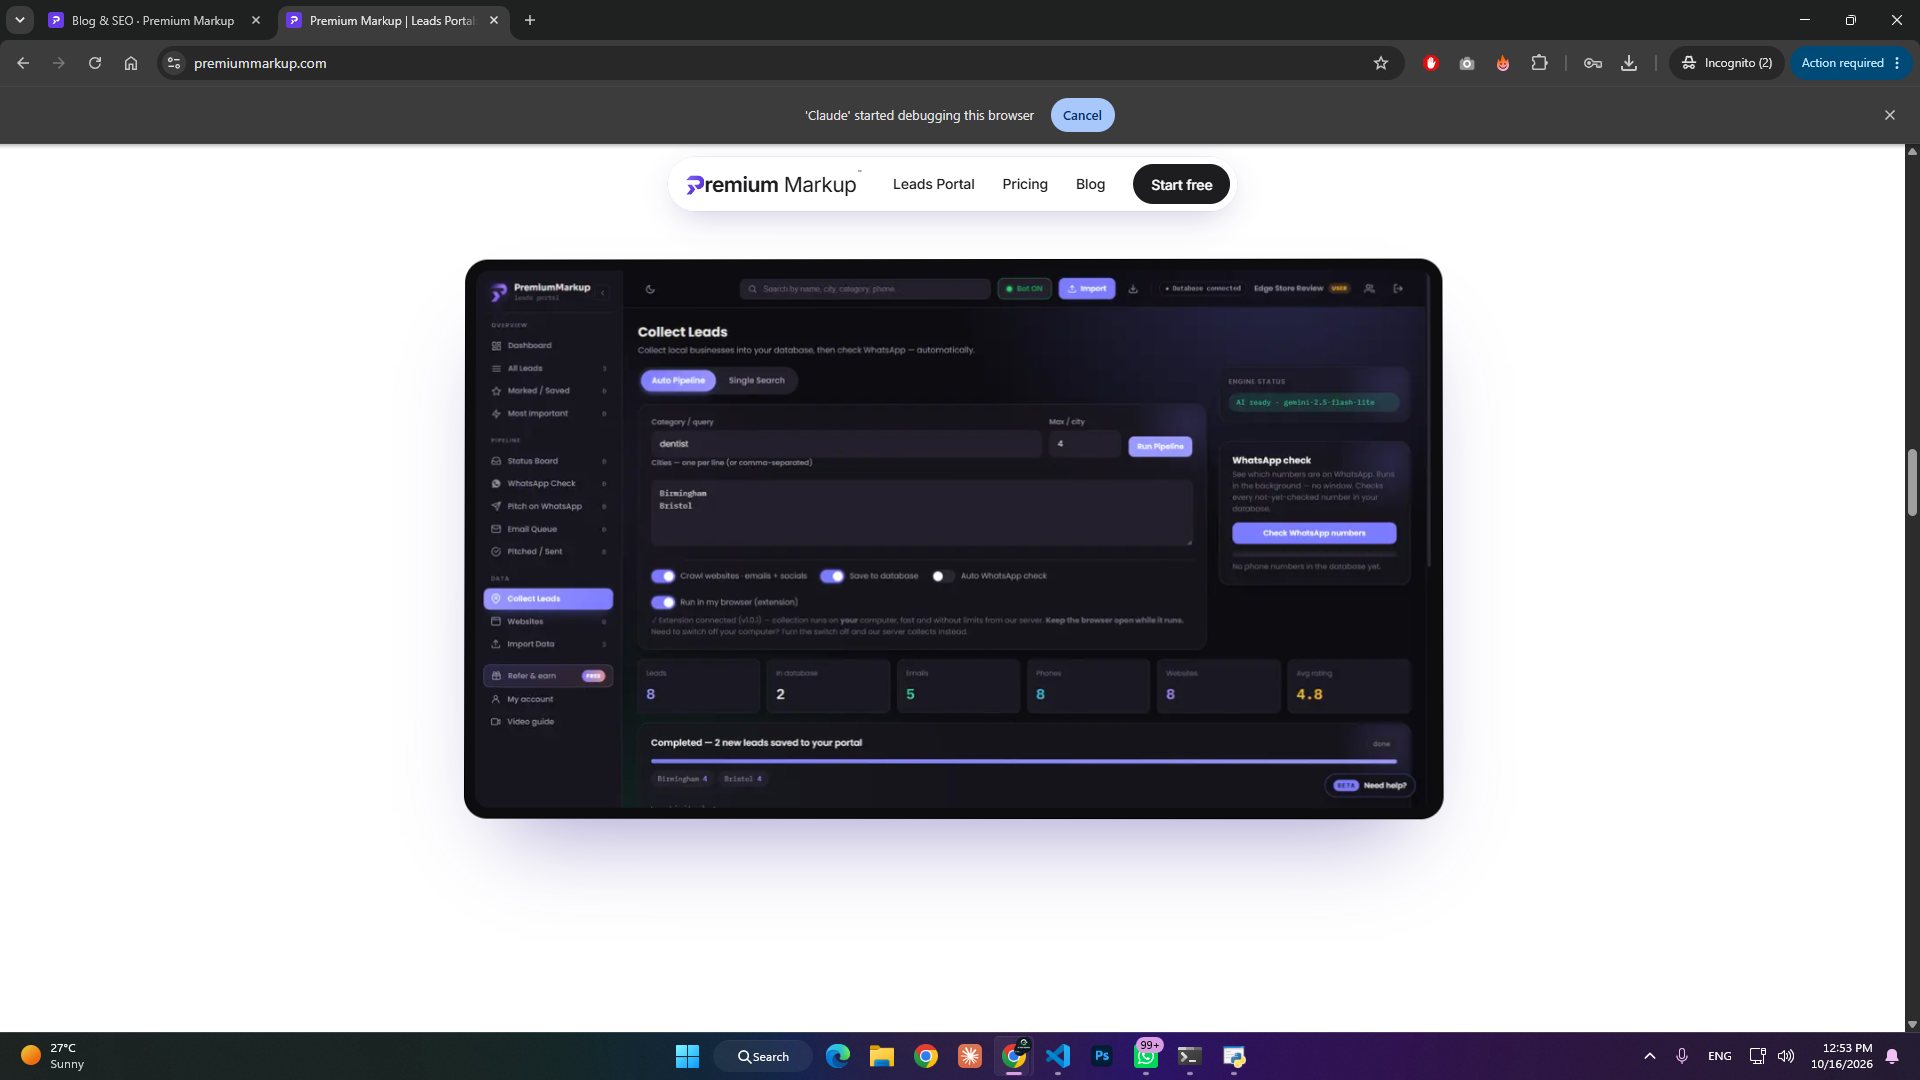
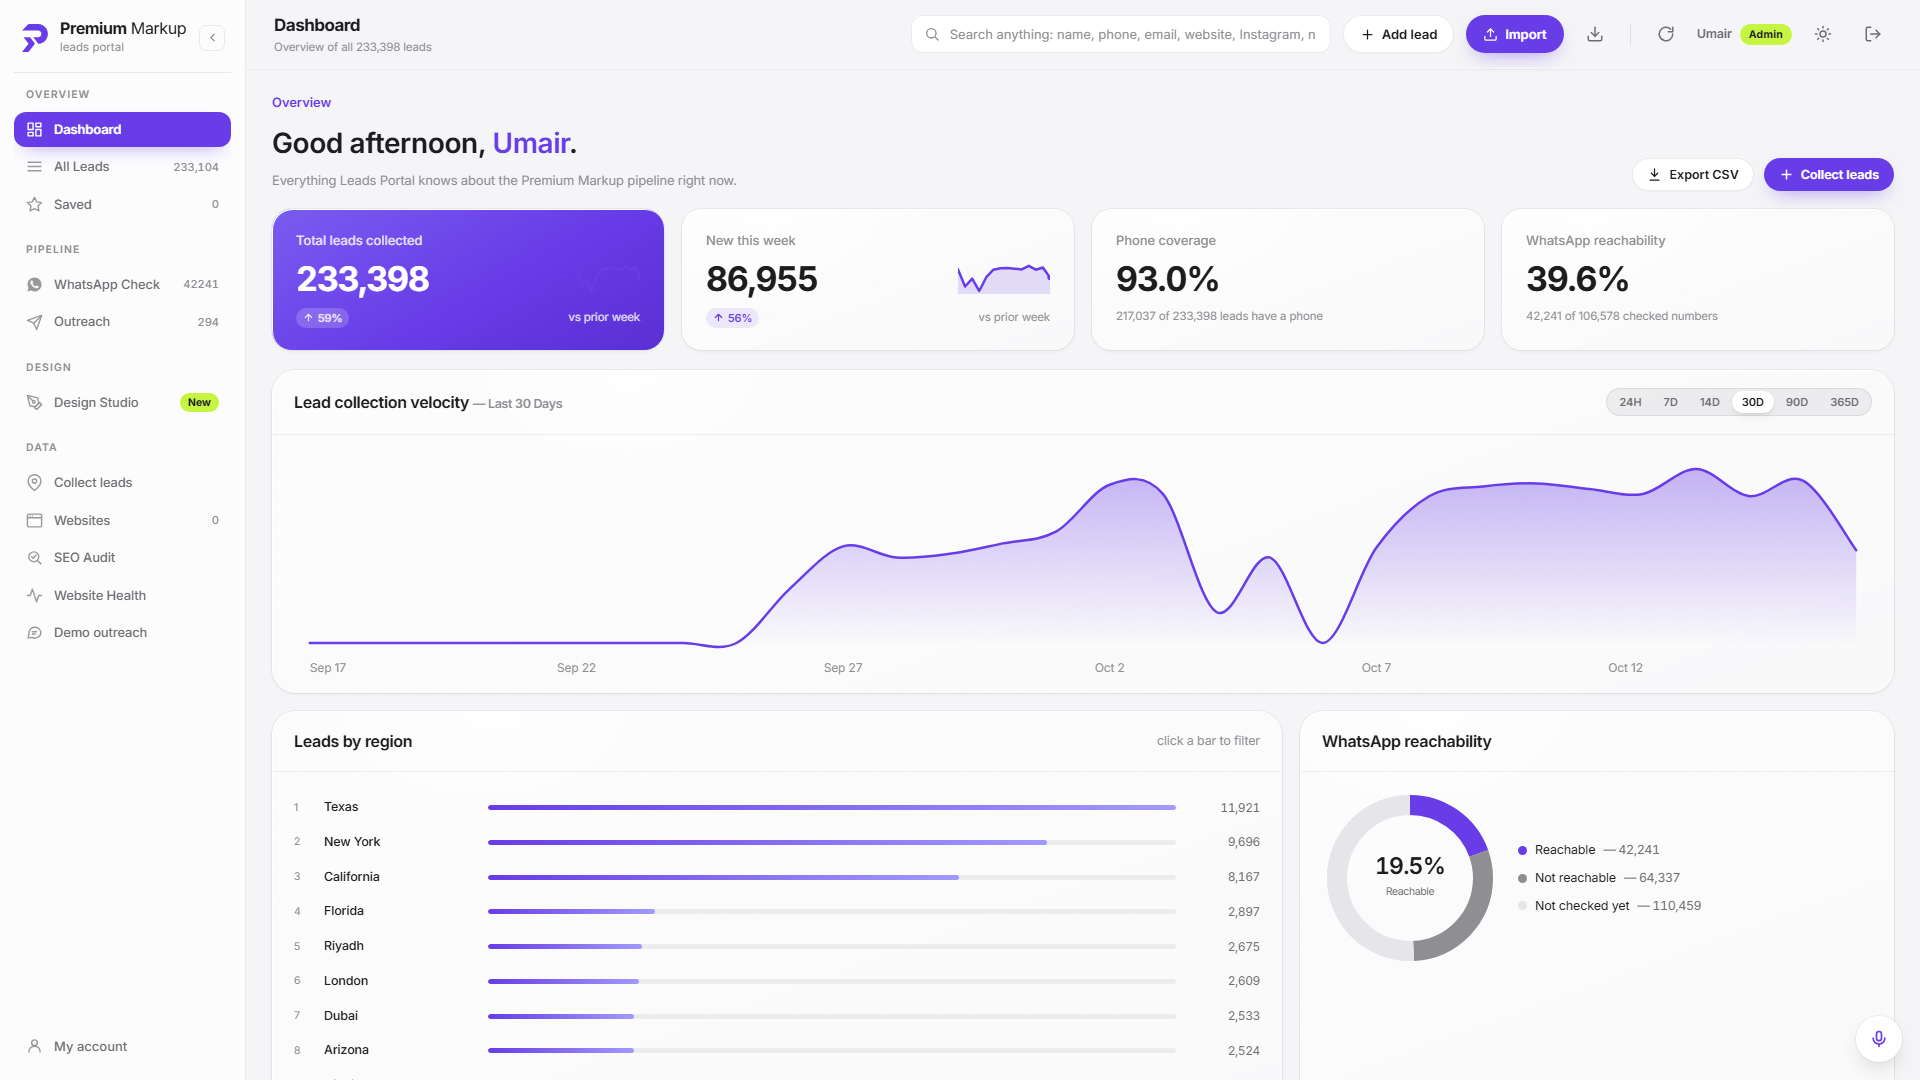
Homepage: original centered nav restored; real live portal screenshots
The previous portal-shot.png was a browser screenshot by mistake. Replaced with
the live dashboard, Collect Leads and WhatsApp Check screens (no lead names or
phone numbers shown).

diff --git a/components/home/home-markup.tsx b/components/home/home-markup.tsx
@@ -73,8 +73,8 @@ export function HomeMarkup({ businesses }: { businesses: number }) {
   <div className="shots-grid">
     <figure className="shot full"><img src="/home/feature-dashboard.webp" alt="Leads Portal dashboard: total leads, new this week, phone coverage and WhatsApp reachability" loading="lazy" width={1440} height={720} /><figcaption><b>One dashboard.</b> Total leads, new this week, phone coverage and WhatsApp reachability, live.</figcaption></figure>
     <figure className="shot"><img src="/home/feature-tiles.webp" alt="Lead stats tiles in the Leads Portal" loading="lazy" width={1142} height={142} /><figcaption><b>Track the numbers</b> that matter: leads collected, phone coverage and WhatsApp reach.</figcaption></figure>
-    <figure className="shot big"><img src="/home/feature-collect.webp" alt="Collect leads by category and city in the Leads Portal" loading="lazy" width={900} height={560} /><figcaption><b>Collect leads</b> by category and city, saved straight to your database.</figcaption></figure>
-    <figure className="shot"><img src="/home/feature-whatsapp.webp" alt="WhatsApp number check in the Leads Portal" loading="lazy" width={235} height={205} /><figcaption><b>Check WhatsApp</b> numbers in the background.</figcaption></figure>
+    <figure className="shot big"><img src="/home/feature-collect.webp" alt="Collect leads by category and city in the Leads Portal" loading="lazy" width={1640} height={830} /><figcaption><b>Collect leads</b> by category and city, saved straight to your database.</figcaption></figure>
+    <figure className="shot"><img src="/home/feature-whatsapp.webp" alt="WhatsApp check in the Leads Portal: numbers checked, on WhatsApp, not on WhatsApp" loading="lazy" width={1640} height={500} /><figcaption><b>Check WhatsApp</b> numbers in the background.</figcaption></figure>
   </div>
 </section>
 <section className="who" id="who"><div className="pin"><div className="track" id="track">

diff --git a/components/home/home.css b/components/home/home.css
@@ -721,11 +721,6 @@ html.lenis, html.lenis body { height: auto; }
 .pm2 .ptop.nogl::after { content: ""; position: absolute; right: 12%; top: 50%; width: min(300px, 34vw); aspect-ratio: 205 / 217; transform: translateY(-50%); background: url(/brand/pm-icon.svg) center / contain no-repeat; filter: drop-shadow(0 30px 40px rgba(104,60,231,.35)); }
 @media (max-width: 900px) { .pm2 .ptop.nogl::after { right: 50%; top: 28%; transform: translate(50%, -50%); width: 160px; } }
 
-/* Clean top bar: full width, solid, no floating pill */
-.pm2 .gnav { top: 0; left: 0; right: 0; width: 100%; transform: none; border-radius: 0; height: 64px; padding: 0 24px; justify-content: space-between; gap: 22px; background: rgba(255,255,255,.94); box-shadow: 0 1px 0 rgba(0,0,0,.08); backdrop-filter: saturate(160%) blur(14px); -webkit-backdrop-filter: saturate(160%) blur(14px); }
-.pm2 .gnav::before, .pm2 .gnav::after { display: none !important; }
-.pm2 .gnav.dk { background: rgba(12,12,20,.9); box-shadow: 0 1px 0 rgba(255,255,255,.08); }
-.pm2 .gnav a { font-size: 14.5px; }
 
 /* Stats as cards, same look as the floating portal cards in the hero */
 .pm2 .stats { padding: 56px 24px 72px; gap: 18px; }
@@ -733,12 +728,7 @@ html.lenis, html.lenis body { height: auto; }
 .pm2 .stats b { font-size: clamp(44px, 6vw, 72px); }
 .pm2 .stats span { display: block; margin-top: 10px; font-size: 15px; }
 @media (max-width: 720px) { .pm2 .stats { grid-template-columns: 1fr; padding: 40px 18px; } }
-.pm2 .gnav a { font-size: 14.5px; }
 
-/* Nav: logo on the left, links and button grouped on the right */
-.pm2 .gnav { justify-content: flex-start; gap: 28px; }
-.pm2 .gnav .brandlink { margin-right: auto; }
-.pm2 .gnav a:not(.pbtn) { font-size: 14.5px; font-weight: 500; }
 
 /* Real portal screens in the homepage */
 .pm2 .shots { max-width: 1120px; margin: 0 auto; padding: 96px 24px 40px; background: #fff; }
